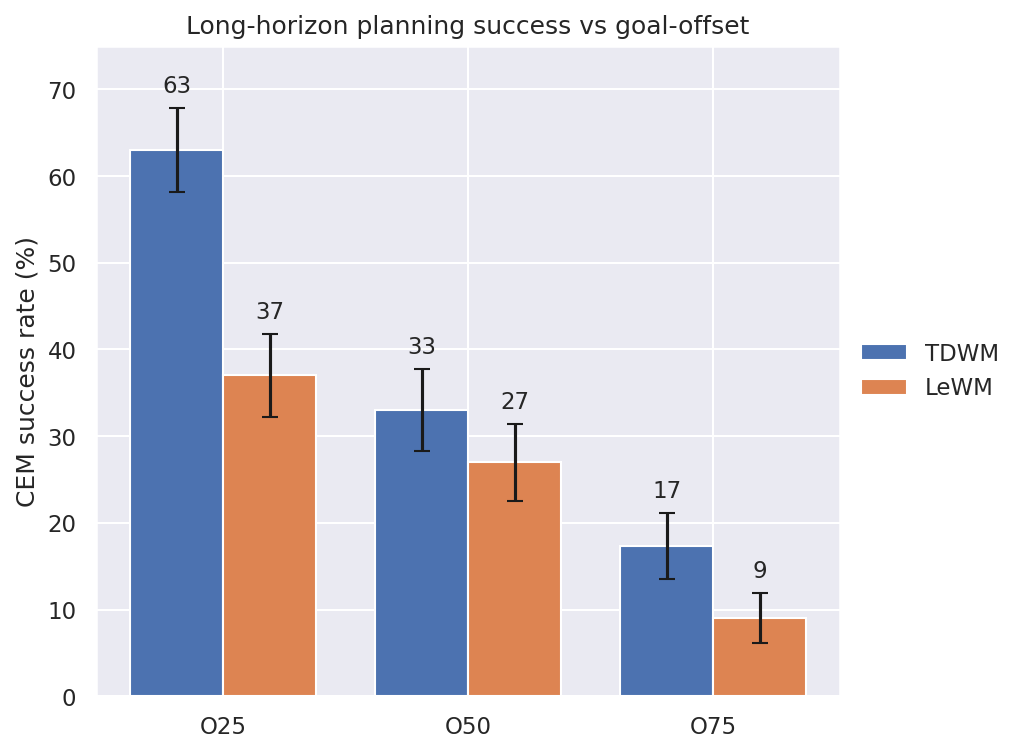
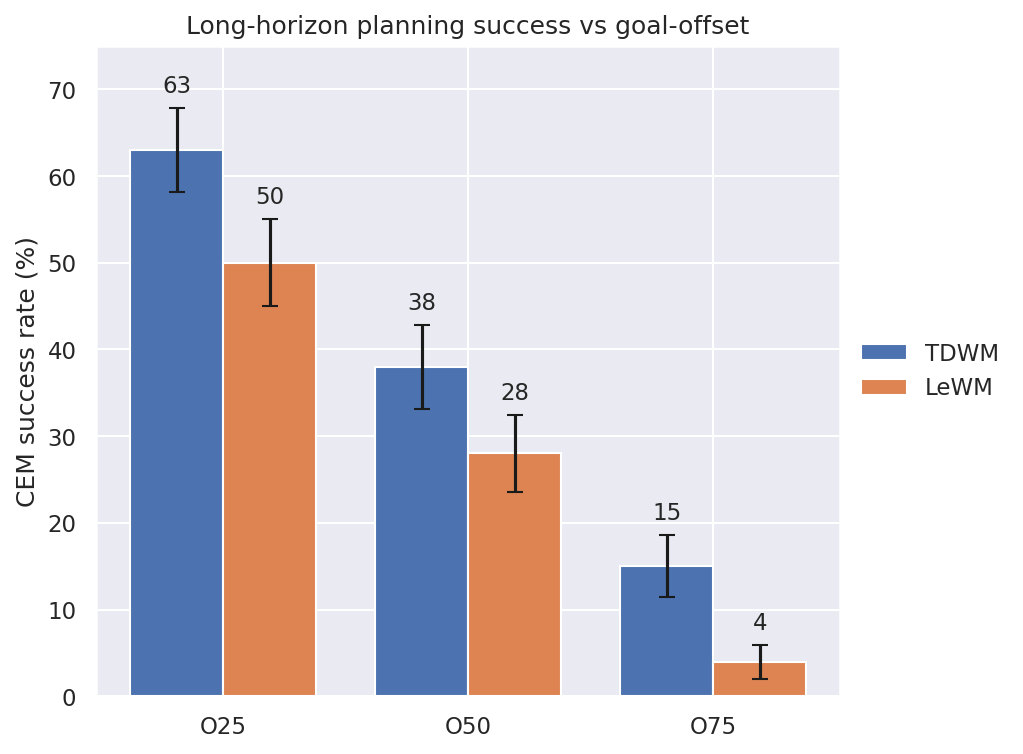
Update blog to latest draft: new figures, sections, correspondence line, per-figure size controls

diff --git a/_layouts/project.html b/_layouts/project.html
@@ -37,6 +37,10 @@ layout: base
           <div class="is-size-6 publication-authors equal-contrib"><span class="equal-brace">{ }</span> denotes equal contribution</div>
           {% endif %}
 
+          {% if page.correspondence %}
+          <div class="is-size-6 publication-authors publication-correspondence">{{ page.correspondence }}</div>
+          {% endif %}
+
           {% if page.date %}
           <div class="is-size-6 publication-date">{{ page.date }}</div>
           {% endif %}
@@ -69,11 +73,11 @@ layout: base
   <div class="container is-max-desktop">
     <div class="hero-body">
       {% if page.teaser contains '.mp4' or page.teaser contains '.webm' %}
-      <video class="teaser-media" autoplay muted loop playsinline>
+      <video class="teaser-media" style="width: {{ page.teaser_width | default: '60%' }};" autoplay muted loop playsinline>
         <source src="{{ page.teaser | relative_url }}">
       </video>
       {% else %}
-      <img class="teaser-media" src="{{ page.teaser | relative_url }}">
+      <img class="teaser-media" style="width: {{ page.teaser_width | default: '60%' }};" src="{{ page.teaser | relative_url }}">
       {% endif %}
       {% if page.teaser_caption %}
       <p class="teaser-caption">{{ page.teaser_caption }}</p>

diff --git a/static/css/index.css b/static/css/index.css
@@ -16,6 +16,14 @@ body {
   font-family: 'Google Sans', sans-serif;
 }
 
+/* Tighten the gap between the title block and the teaser figure */
+.hero:not(.teaser) .hero-body {
+  padding-bottom: 1.5rem;
+}
+.hero.teaser .hero-body {
+  padding-top: 0.5rem;
+}
+
 .publication-title {
   margin-bottom: 1rem !important;
 }
@@ -38,6 +46,11 @@ body {
 .equal-contrib {
   margin-top: 0.4rem;
   color: #4a4a4a;
+}
+
+.publication-correspondence {
+  margin-top: 0.25rem;
+  color: #6a6a6a;
 }
 
 .equal-brace {

diff --git a/index.md b/index.md
@@ -20,6 +20,9 @@ affiliations:
   - id:
     name: Stanford University
 
+# ---- Correspondence line shown under the affiliations. ----
+correspondence: "Correspondence: hmolin, wgpeng [at] stanford.edu"
+
 # ---- Status shown in place of the link buttons. ----
 # When the paper is ready, delete `status` and add a `links:` list instead, e.g.
 # links:
@@ -29,84 +32,129 @@ affiliations:
 status: Paper in progress
 
 # ---- Teaser (optional). Drop a file in static/images/ and point here. ----
-teaser: /static/images/patch_pc1_clean.png
-teaser_caption: "First principal component of patch features across a manipulation rollout. Top: input frames. TD-WM (middle) concentrates representation on the arm and manipulated objects; LeWorldModel (bottom) spreads it across the static background."
+# Change `teaser_width` to resize the teaser figure (any CSS width, e.g. 80% or 640px).
+teaser: /static/images/main_figure.png
+teaser_width: 100%
+# teaser_caption: "Optional caption for the teaser figure."
 
 # ---- Citation (optional). Paper in progress; add a BibTeX entry when ready. ----
 # bibtex: |
 #   @article{...}
 ---
 
-> **Work in progress.** This page is an early draft; sections will be expanded and the paper is coming soon.
+<!--
+  FIGURE SIZE: each in-text figure sets its own width via {:style="width:NN%"}
+  right after the image. Change that percentage (or use px, e.g. 480px) to resize.
+  The teaser figure at the top is sized by `teaser_width` in the front matter above.
+-->
 
-## Overview
+> **Work in progress.** This is preliminary work; sections will be expanded and the paper is coming soon.
 
-**We beat LeWorldModel where it matters most.**
+## Motivating Issue
 
-The short version: SIGReg plus MSE is misspecified for learning dynamics. [LeWorldModel](https://arxiv.org/abs/2603.19312) ends up rewarding the model for forgetting the hardest-to-predict parts of a scene — which are exactly the dynamics we care about. That is backwards.
+The standard recipe for JEPA-style world models is by now familiar: an encoder, a next-latent predictor co-trained against it, and an anti-collapse regularizer to keep the encoder from collapsing to a trivial representation. Planning is L2 cost-to-go in latent space. [LeWorldModel](https://arxiv.org/abs/2603.19312) is a canonical instance with SIGReg as its anti-collapse regularizer. SIGReg constrains the geometry of the latent distribution by pushing embeddings toward an isotropic Gaussian, which is an elegant solution to trivial collapse. Yet when we tested it, it planned poorly, and the representation turned out to be the cause.
 
-Temporal Discriminative World Modeling (TD-WM) is a clean fix. It forces the model to discriminate dynamics rather than static appearance, and outperforms LeWorldModel on hard manipulation tasks.
+**SIGReg prevents collapse, but does not enforce information retention**. While it successfully avoids trivial collapse, it does not incentivize the encoder to retain physical information. This is exactly what we observe when we train and evaluate on OGBench's Scene environment (Park et al., 2025).
 
-How? We add a temporal discriminative objective inside JEPA with no latent regularization. The model no longer collapses, and it reaches a low SIGReg loss on its own without any direct supervision.
+![Example start and end of trajectory in OGBench Scene]({{ '/static/images/ogbench_scene.png' | relative_url }}){:style="width:50%"}
+*Example start and end of trajectory in OGBench Scene.*
 
-*Visual: latent feature rollout on the cube task — coming soon.*
+The highly dynamic cube's $$(x,y,z)$$ position and 7-DOF arm were weakly represented within embeddings. This is in contrast to the slower moving objects (drawer, window, buttons) that were cleanly recoverable. From this, we hypothesized that although anti-collapse is necessary, it is not sufficient to produce informative latents.
 
-## Motivating issues
+![Probing a SIGReg-trained encoder on OGBench Scene]({{ '/static/images/repr_probe_sigreg_step23000.png' | relative_url }}){:style="width:70%"}
+*Held-out $$R^2$$ from probing a SIGReg-trained encoder: the cube and 7-DOF arm are only weakly recoverable, while the drawer, window, and buttons decode almost perfectly.*
 
-The standard recipe for training JEPA-style world models is by now familiar: encode each frame into a latent, train a predictor to regress the next latent from the current one, and regularize the encoder against collapse. Planning then rolls the predictor forward and scores candidate action sequences by their L2 distance to a goal latent. [LeWorldModel](https://arxiv.org/abs/2603.19312), for instance, combines a next-embedding MSE objective, SIGReg for anti-collapse, an autoregressive predictor, and an L2 planning cost in latent space. When we tested this combination, however, it planned poorly — and the representation turned out to be the cause.
-
-**SIGReg prevents collapse, but does not enforce information retention.** SIGReg constrains the geometry of the latent distribution by pushing embeddings toward a full-rank, decorrelated isotropic Gaussian. While this successfully avoids trivial collapse, it does not incentivize the encoder to retain physical information. This is exactly what we observe when we train and evaluate on OGBench's Scene environment: the cube's $$(x,y,z)$$ position and the 7-DOF arm were only weakly linearly represented within embeddings, even as the rest of the scene (drawer, window, buttons) was cleanly recoverable. Anti-collapse is necessary, but it does not necessarily produce informative latents.
-
-![Probing object states from a SIGReg encoder on OGBench's Scene environment]({{ '/static/images/probe_states_cube_sigreg_e25.png' | relative_url }}){:.wide}
-*Probing object states from a SIGReg-trained encoder. The cube ($$R^2 \approx 0.18$$) and arm ($$R^2 \approx 0.30$$) are only weakly recoverable, while the drawer, window, and buttons decode almost perfectly ($$R^2 \approx 0.95$$). Even nonlinear (MLP) probes and patch-level readouts recover cube position only partially.*
-
-Motivated by these results, we trace the problem to the training objective itself. Next-embedding MSE is minimized by making the future predictable, and the surest way to achieve that is to stop representing the parts of it that are hard to anticipate. The small, fast-moving, control-relevant variables (the arm's precise pose, the cube) are exactly what a regressor would rather forget, because forgetting them lowers the loss. Clearly, the training objective needs to change.
+Motivated by these results, we trace the problem to the training objective. Next-embedding MSE is minimized by making the future predictable, and the surest way to achieve that is to stop representing the parts of it that are hard to anticipate. The small, fast-moving, control-relevant variables (the arm's precise pose, the cube) are exactly what a regressor would rather forget, because forgetting them lowers the loss. Clearly, the training objective needs to change.
 
 ## Temporal Discriminative World Modeling
 
-A good world model should encode agent-relevant dynamics and predict future states conditioned on candidate actions. We can take advantage of the natural temporal structure of our data to contrast the current state against the future, pushing the encoder to pick out what separates the two. When co-trained alongside an action-conditioned predictor, the predictor has asymmetric information about dynamics. Intuitively, consider a robot carrying a box down a street. Having access to the robot's actions, the predictor knows exactly the cause of the box's movement; comparatively, it doesn't know the cause of leaves blowing in the wind. Hence the gradient points toward faithfully representing the box rather than the leaves — leaving us with an objective that incentivizes a high-quality world model.
+Broadly speaking, a good world model should encode agent-relevant dynamics and simulate future states conditioned on candidate actions. The appeal of a JEPA-style latent world model is its ability to learn abstractions of the world without having to represent irrelevant details of the scenery. In order to do so, the objective must specify what types of information should be retained.
+
+In light of this, we propose a Temporal Discriminative training objective. We leverage the natural temporal structure of action-labeled video to contrast the current state against the future, pushing the encoder to pick out what separates the two. Further, the action condition of the predictor biases the model towards learning agent-relevant dynamics.
+
+With our Temporal Discriminative World Model (TDWM), we are able to train stably and avoid trivial collapse with only one training objective. The intrinsic anti-collapse from temporal discrimination is qualitatively different from variance-based regularization: our latent space produces an effective rank of 40, while SIGReg expands to around 150. For reference, the environment contains a total of 24 degrees of freedom.
 
 ### The objective
 
-Following the basic JEPA recipe, we co-train an encoder $$f_\theta$$ and a predictor $$g_\phi$$. The encoder embeds each frame of a clip, $$z_i = f_\theta(o_i)$$, and from an $$H$$-frame history the predictor forms the embedding $$k$$ steps ahead using the intermediate actions:
+Following the basic JEPA recipe, we co-train an encoder $$f_\theta$$ and a predictor $$g_\phi$$. The encoder embeds each frame $$o_i$$ of a clip, $$z_i = f_\theta(o_i)$$, and from a 3-frame history the predictor predicts the embedding $$k$$ steps ahead using the intermediate actions,
 
-$$\hat z_{t+k} = g_\phi\big(z_{t-H+1:t},\; a_{t:t+k-1},\; k\big).$$
+$$\hat z_{t+k} = g_\phi\big(z_{t-2:t},\; a_{t:t+k-1},\; k\big).$$
 
-Both encoder and predictor outputs are norm-constrained, so only their direction is free. Writing $$c_{ij}$$ for the cosine similarity between a prediction with target frame $$i$$ and an encoded frame $$j$$ of the same clip, we regress every such cosine similarity onto a target similarity that decays with the temporal gap $$\lvert i-j\rvert$$:
+Both encoder and predictor outputs are norm-constrained, so only their direction is free. Writing $$c_{ij} = \text{cossim}(\hat{z}_i, z_j)$$ for the cosine similarity between a prediction with target frame $$i$$ and an encoded frame $$j$$ of the same clip, we regress every such cosine similarity onto a target similarity that decays with the temporal gap $$\lvert i-j\rvert$$:
 
-$$\mathcal{L}=\mathbb{E}_{i,j}\left[\left(c_{ij}-e^{-|i-j|/\sigma}\right)^2\right].$$
+$$\mathcal{L}=\mathbb{E}_{i,j\sim \text{clip}}\left[\left(c_{ij}-e^{-|i-j|/\sigma}\right)^2\right].$$
 
-In a norm-constrained latent space this cosine regression is MSE-equivalent: at $$i=j$$ it recovers next-embedding prediction, while the partial-similarity targets at $$i \neq j$$ pull temporally distant frames toward orthogonality, ruling out collapse. Importantly, these targets are mutually consistent: the setpoint matrix $$S_{ij}=e^{-\lvert i-j\rvert/\sigma}$$ is a valid Gram matrix, so some configuration of unit vectors realizes every target cosine at once — the optimum is a geometrically attainable arrangement.
+At $$i=j$$ this reduces to a next-embedding prediction objective in a norm-constrained space, while the partial-similarity targets at $$i \neq j$$ push temporally distant frames toward orthogonality, making collapse strictly suboptimal. Further, by the construction of these targets, it is possible to arrange embeddings such that 0 loss is satisfied as long as the encoder dimension is at least as large as the length of the clips.
+
+### Temporal Distance
+
+![Example start and end of trajectory in OGBench Scene]({{ '/static/images/ogbench_scene.png' | relative_url }}){:style="width:50%"}
+*Example start and end of trajectory in OGBench Scene.*
+
+When performing latent planning via the Cross-Entropy Method, temporal distance is a more faithful measure of distance to goal completion than SIGReg's geometric distance.
+
+As in the figure above, the arm is already in its goal state while the drawer needs to be opened. With a latent space like LeWorldModel's, the start and goal are already low cost as most things are already correctly positioned. Closing the drawer requires moving the arm out of position which temporarily increases the cost. In TDWM's latent space, states are ordered by their distance in time which means that moving the arm towards the drawer smoothly decreases cost as this action decreases the time until the goal is achieved.
 
 ### Optimizations
 
-Noting that 97% of training FLOPs are allocated to the encoder and that we sample long contiguous blocks of frames, we employ multi-horizon prediction to substantially increase gradient quality while only modestly increasing the compute cost. In addition, we find that a fused Muon–AdamW optimizer substantially accelerates convergence.
+Noting that 97% of training FLOPs are allocated to the encoder and that we sample long contiguous blocks of frames, we employ multi-horizon prediction to increase gradient quality substantially whilst modestly increasing the compute cost. In addition, we find that using a fused Muon-AdamW optimizer substantially accelerates convergence.
 
 ### Data
 
-![Predictor fidelity under off-policy actions]({{ '/static/images/predictor_fidelity_ood.png' | relative_url }})
-*Predictor fidelity under off-policy (noised) actions: our richer model degrades sharply out of distribution, while the less-informative SIGReg model changes little.*
+![Normalized predictor fidelity vs. action perturbation magnitude]({{ '/static/images/predictor_fidelity_ood.png' | relative_url }}){:style="width:70%"}
+*Normalized predictor fidelity as a function of out-of-distribution action perturbation magnitude ($$\mathrm{RMS}(\Delta a / \sigma_a)$$). Trained on expert trajectories only, TDWM degrades sharply on OOD actions; training on the noised dataset largely closes the gap.*
 
-Interestingly, when training on expert data alone, SIGReg out-plans our richer model. Probing both predictors with off-policy (noised) actions shows why: ours degrades sharply on actions outside the expert distribution, while SIGReg's — which encodes less of the scene — changes very little. We hypothesize that this robustness is mostly a consequence of representing less, and shows up only on tasks that don't require the parts it omits.
+Interestingly, when training only on expert data, LeWM outperforms TDWM on planning. Probing both predictors with off-policy (noised) actions demonstrates why: TDWM's prediction accuracy degrades sharply on actions outside of the expert distribution (we return to this in [The off-manifold tradeoff](#the-off-manifold-tradeoff)). We hypothesize that LeWM's robustness can be attributed to it encoding less of the actual scene. In this way, it has a simpler extrapolation task. Further, we note that in the expert trajectories, action correlate linearly with state to an $$R^2$$ of 0.71. TDWM may therefore be modeling agent intent rather than the underlying physics of the environment.
 
-To address this, we re-rolled the trajectories with added action noise and re-rendered. We further argue that world models should be trained on both expert and unsuccessful trajectories: the goal of a world model is to model the underlying physics of the world, not just *intent*. We trained every model on this dataset, with the recipe otherwise unchanged.
+To address this, we supplement the dataset by re-rolling the trajectories with added action noise and re-rendering. This brings action correlation with state down to an $$R^2$$ of 0.31. We argue that world models should be trained on data including both expert and unsuccessful trajectories, as this forces the world model to understand the underlying physics of the world. Importantly, this kind of data is readily available. Recent embodied datasets retain failed trajectories at meaningful scale: [DROID](https://arxiv.org/abs/2403.12945) releases roughly 16k failed teleoperation attempts alongside its 76k successes; [RoboMIND](https://arxiv.org/abs/2412.13877) contributes a further 5k real-world failure demonstrations, each labeled with its cause; and [AgiBot World](https://arxiv.org/abs/2503.06669) preserves failed demonstrations within its 1M-trajectory corpus. Alongside these public datasets, as embodied intelligence becomes deployed at scale, failed trajectories will be abundant.
+
+We trained every model on this dataset with the recipe otherwise unchanged. Both the TDWM and LeWM variants are trained for 0.8 exaFLOPs and the presented results come from the checkpoint with the highest O25 CEM score.
 
 ## Results
 
-By using a temporal discrimination objective, TD-WM recovers a significant portion of state information within the embedding space.
+We evaluate TDWM along three axes: what its latents encode (probing), whether anti-collapse emerges without explicit regularization (SIGReg loss), and how it plans (CEM success rate at long goal horizons). All comparisons are against LeWM trained on the same noised dataset.
 
-![Object-state probes: TD-WM vs. LeWorldModel]({{ '/static/images/object_state_probe_tdwm_vs_lewm.png' | relative_url }})
-*Object-state probes: TD-WM recovers substantially more state information in its embeddings than LeWorldModel.*
+### TDWM recovers dynamic variables
 
-We evaluate TD-WM's downstream performance via the cross-entropy method (CEM). Notably, we evaluate at 3× longer goal horizons than [LeWorldModel](https://arxiv.org/abs/2603.19312).
+![Held-out R² for object-state probes]({{ '/static/images/object_state_probe_tdwm_vs_lewm.png' | relative_url }}){:style="width:70%"}
+*Held-out $$R^2$$ for object-state probes on the final embedding. TDWM and LeWM are matched on the static scene elements, but TDWM recovers roughly twice as much information about the agent-controlled variables (cube and arm).*
 
-![Long-horizon planning performance]({{ '/static/images/longhorizon_o25_o75.png' | relative_url }})
-*Stronger planning performance: under the cross-entropy method, TD-WM plans better at multiple goal horizons.*
+The probe results separate cleanly into two regimes. On the static scene elements (drawer, window, and buttons), both models score between 0.91 and 0.97 and are effectively tied. On the dynamic variables, the gap is large: TDWM reaches $$R^2 = 0.56$$ on cube position versus LeWM's 0.27 (2.1×), and 0.69 versus 0.39 on the 7-DOF arm (1.8×).
+
+This is the pattern the asymmetric-information argument in [Temporal Discriminative World Modeling](#temporal-discriminative-world-modeling) predicts. Information about static geometry is easily predictable and thus survives mere anti-collapse pressure. The state of the arm and cube is more difficult to predict but the most reliable discriminant between temporally adjacent frames, pushing TDWM to represent them more cleanly.
+
+### Anti-collapse emerges without regularization
+
+TDWM is trained with no SIGReg term, yet its final SIGReg loss falls from ~30 to 2.4. LeWorldModel achieves a SIGReg loss of 0.6 with direct optimization. TDWM therefore closes roughly 92% of the init-to-LeWM gap on a quantity it never sees. Clearly, explicit regularization is not necessary for avoiding collapse. The discriminative objective enforces enough decorrelation through its orthogonality targets to keep the representation healthy on its own.
+
+### Stronger long-horizon planning
+
+![CEM success rate at goal offsets O25, O50, and O75]({{ '/static/images/longhorizon_o25_o75.png' | relative_url }}){:style="width:65%"}
+*CEM success rate at goal offsets O25, O50, and O75. Note that O75 is 3× the horizon evaluated in [LeWorldModel](https://arxiv.org/abs/2603.19312). Error bars are standard error across seeds.*
+
+TDWM outperforms LeWM at every horizon: 63% vs. 50% at O25, 38% vs. 28% at O50, and 15% vs. 4% at O75. The absolute margin is broadly stable, but the relative gap widens with horizon. Long-horizon planning is the regime in which a missing cube position compounds worst, and it is also where the representational advantage pays out most.
+
+### The off-manifold tradeoff
+
+![CEM planning-component ablations at O25]({{ '/static/images/o25_ablation.png' | relative_url }}){:style="width:70%"}
+*Planning success at O25 across CEM ablations: LeWM (50), TDWM expert + noise (63), TDWM expert with a perfect (MuJoCo) predictor (66), and a perfect encoder with a perfect predictor (77, the absolute upper bound).*
+
+As discussed in [Data](#data), the richer representation degrades predictor robustness out of distribution. To better understand where the models fail, we perform ablations on each component of CEM planning. As shown in the figure above, taking the expert-trained encoder and using ground-truth MuJoCo environment as the predictor module, we achieve a CEM score of 66 (isolating the perfect-predictor upper bound). By training on noised action trajectories, the trained predictor almost entirely closes this gap up to 63. As context, performing CEM directly in the simulator's representation space with its ground-truth predictor, we achieve a maximal CEM score of 77, an absolute upper bound for performance.
+
+### Limitations
+
+This is preliminary work and should be read as such. Our evaluation is on a single environment (the Scene manipulation task). We are actively expanding to more environments and evaluating scalability of these ideas.
 
 ## Conclusion
 
-*Coming soon.*
+The standard recipe for latent world models has a quiet misspecification: making the future predictable and retaining information about it pull in opposite directions whenever a variable is hard to anticipate. Anti-collapse stops the encoder from collapsing, but does not stop it being uninformative.
+
+TDWM replaces that objective. Discriminating between temporally adjacent states forces a focus on dynamics, and the predictor's action conditioning points the gradient at agent relevant dynamics. The result is a representation that selectively preserves the agent-controlled variables (cube position, arm pose) and outperforms previous world models at long horizon planning.
 
 ## References
 
 1. Maes, L., Le Lidec, Q., Scieur, D., LeCun, Y., & Balestriero, R. *LeWorldModel: Stable End-to-End Joint-Embedding Predictive Architecture from Pixels.* arXiv:2603.19312, 2026. [[arXiv]](https://arxiv.org/abs/2603.19312)
+2. Park, S., Frans, K., Eysenbach, B., & Levine, S. *OGBench: Benchmarking Offline Goal-Conditioned RL.* International Conference on Learning Representations (ICLR), 2025.
+3. Khazatsky, A., Pertsch, K., Nair, S., Balakrishna, A., Dasari, S., Karamcheti, S., Nasiriany, S., Srirama, M. K., Chen, L. Y., Ellis, K., et al. *DROID: A Large-Scale In-The-Wild Robot Manipulation Dataset.* Robotics: Science and Systems (RSS), 2024. [[arXiv]](https://arxiv.org/abs/2403.12945)
+4. Wu, K., et al. *RoboMIND: Benchmark on Multi-embodiment Intelligence Normative Data for Robot Manipulation.* Robotics: Science and Systems (RSS), 2025. [[arXiv]](https://arxiv.org/abs/2412.13877)
+5. AgiBot-World Contributors. *AgiBot World Colosseo: A Large-scale Manipulation Platform for Scalable and Intelligent Embodied Systems.* 2026. [[arXiv]](https://arxiv.org/abs/2503.06669)
